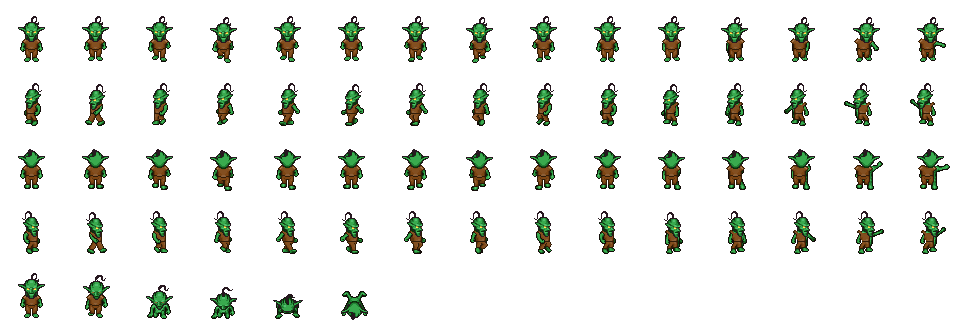
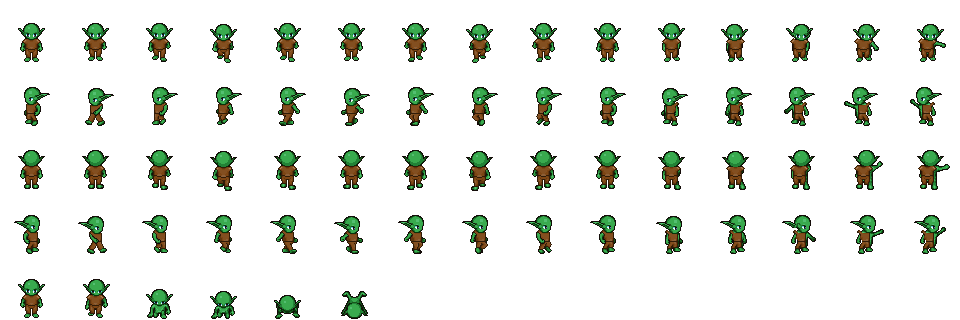
Goblin: simpler young face (child head with long pointed ears)

diff --git a/CREDITS.md b/CREDITS.md
@@ -43,7 +43,7 @@ Other art:
 | Dungeon tiles, props, monsters (`assets/Tilemap`) | Kenney, Tiny Dungeon - https://kenney.nl/assets/tiny-dungeon | CC0 | Free, no conditions |
 | Nature tiles, trees, props (`NatureArt`) | Drawn by code in this project | ours | yes |
 | Town buildings, walls, roofs, decorations (`assets/town`) | OpenGameArt "LPC Tiles" collection, authors in `assets/CREDITS.csv` and `assets/town/*/CREDITS-*.txt` | CC-BY-SA 3.0 / 4.0 (some also GPL, OGA-BY, CC-BY) | Free, credit + share-alike (edits of this art must stay CC-BY-SA/GPL; the DRM clause makes it risky for Steam/consoles) |
-| Young goblin (`assets/monsters/goblin`) | LPC goblin child head (Redshrike, William.Thompsonj, bluecarrot16) on the LPC child body and child clothes, see `assets/monsters/goblin/CREDITS-goblin.txt` | OGA-BY 3.0 (all pieces) | Free, credit the authors (fine for commercial games, Steam, consoles) |
+| Young goblin (`assets/monsters/goblin`) | LPC child body and head with long ears (Redshrike, kheftel, bluecarrot16, JaidynReiman, Nila122...), green, child clothes, see `assets/monsters/goblin/CREDITS-goblin.txt` | OGA-BY 3.0 (all pieces) | Free, credit the authors (fine for commercial games, Steam, consoles) |
 | Engine | Godot Engine - https://godotengine.org/license | MIT | Free, keep the Godot license text with the game |
 
 ## LPC pieces: authors and sources

diff --git a/CLAUDE.md b/CLAUDE.md
@@ -144,8 +144,8 @@ Indie PC game in **Godot 4.7 + GDScript**. Source of truth for design: `Dungeon 
   player's `Equipment` node holds body type + one piece per slot and emits `changed`; the player rebuilds its
   LpcCharacter. The weapon's art decides the attack (spear = thrust, others slash). Character sheet (C) has an
   Equipment column: live preview + one debug list per slot.
-- Monsters: bat, slime, spider still use Kenney sprites. The goblin is a young LPC goblin (child body + "goblin child"
-  head, green, child clothes) baked once by `tools/goblin_baker.gd` (`-- --bake-goblin=<clone>`) into
+- Monsters: bat, slime, spider still use Kenney sprites. The goblin is a young LPC goblin (child body + child head
+  with long ears, green, child clothes) baked once by `tools/goblin_baker.gd` (`-- --bake-goblin=<clone>`) into
   `assets/monsters/goblin/young_goblin.png`; `MonsterData.sprite_sheet` + `MonsterSheet` cut such sheets into
   idle_/run_/attack_<down|left|up|right> + death (real size, no scaling); `SpriteAnimator` then faces 4 ways and the
   swing plays during the wind-up. `MonsterData.max_health` (0 = from Stats), `group_size`, `home_feature` +
